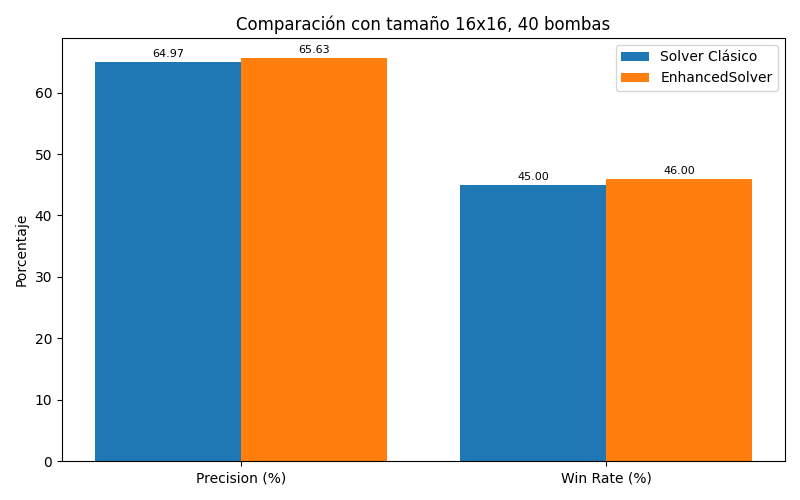
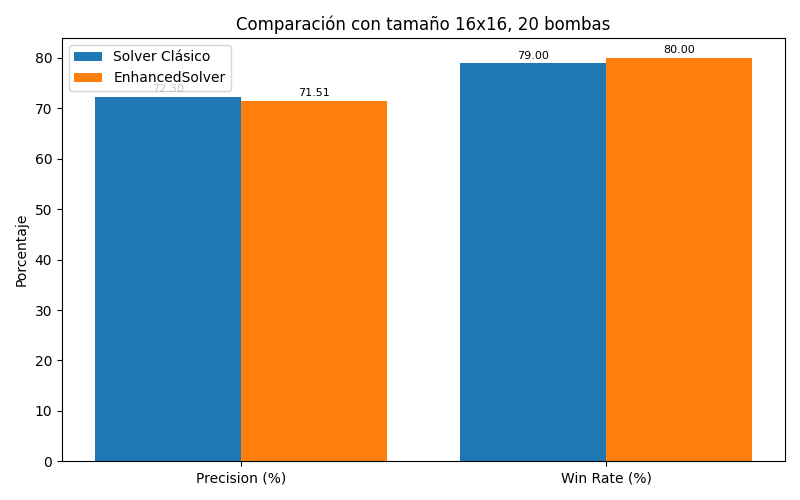
version final
sdadasd

diff --git a/EnhancedSolver.py b/EnhancedSolver.py
@@ -200,6 +200,6 @@ class EnhancedSolver:
         safe_candidates = [cell for cell, prob in self.prob_dict.items() if prob[0] <= min_prob + tolerance]
         safe_candidates.sort(key=lambda c: (self.prob_dict[c][0], self.entropy_score(*c)))
         if self.stats and safe_candidates:
-            for cell in safe_candidates:
-             self.stats.register_move(self.prob_dict[cell][0])  # ← Añadido
+            if safe_candidates:
+                self.stats.register_move(self.prob_dict[safe_candidates[0]][0])
         return safe_candidates

diff --git a/solver.py b/solver.py
@@ -107,6 +107,11 @@ class Solver:
         tolerance = 0.02  # Mismo criterio que EnhancedSolver
         safe_candidates = [cell for cell, prob in self.prob_dict.items() if prob[0] <= min_prob + tolerance]
         safe_candidates.sort(key=lambda c: self.prob_dict[c][0])  # Ordenar por menor probabilidad
+
+        # 🔍 Registrar la jugada si se están guardando estadísticas
+        if self.stats and safe_candidates:
+            self.stats.register_move(self.prob_dict[safe_candidates[0]][0])
+
         return safe_candidates
 
 

diff --git a/main.py b/main.py
@@ -7,7 +7,7 @@ import copy
 # 🎯 Parámetros editables en un solo lugar
 HEIGHT = 16
 WIDTH = 16
-BOMBS = 40
+BOMBS = 20
 PARTIDAS = 100
 
 def run_comparativa_solvers(n_partidas, output_filename_clasico, output_filename_enhanced):
